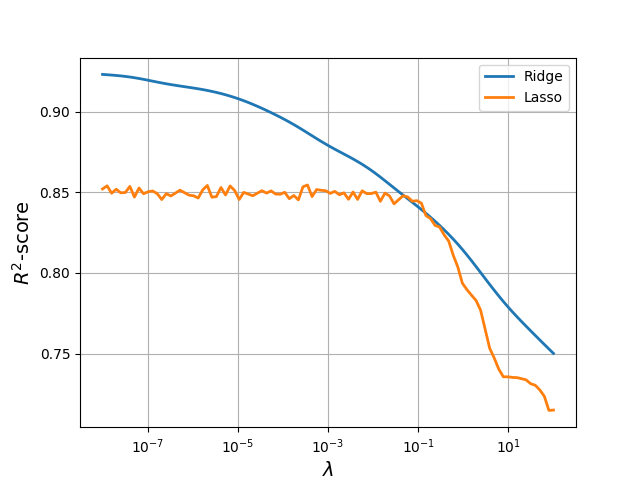
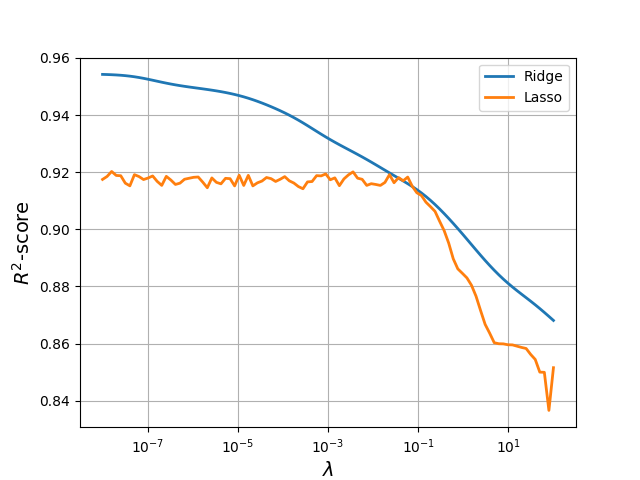
Added results from terrain data

diff --git a/doc/Project1/text/results.tex b/doc/Project1/text/results.tex
@@ -118,50 +118,50 @@ Furthermore, the confidence intervals are given in table \eqref{tab:CI_franke} f
 \fi
 
 \subsection{Real data}
-Below one can find the results when fitting the terrain data with a polynomial of a maximum degree of 5 in x- and y-directions. For the methods that require minimization, we used gradient descent with the parameters $\lambda=1e-5$ (penalty), $\eta=1e-4$ (learning rate) and $niter=1e5$ (number of iterations) when nothing else is specified. For benchmarking the results (mainly to verify the code), Scikit learn was used. In the first place, the studies were done without noise, and then everything was repeated with adding a noise of $\mathcal{N}(0, \sigma^2=0.1)$
+Below one can find the results when fitting the terrain data with a polynomial of a maximum degree of 5 in x- and y-directions. For the methods that require minimization, we used gradient descent with the parameters $\lambda=1e-5$ (penalty), $\eta=1e-4$ (learning rate) and $\text{niter}=1e5$ (number of iterations) when nothing else is specified. For benchmarking the results (mainly to verify the code), Scikit Learn was used.
 
 \subsubsection{Visualization of graphes}
-In figure \eqref{fig:terrain_plots}, we can see how good we were able to fit the polynomials using various methods
+In figure \eqref{fig:terrain_plots}, we can see how good we were able to fit the polynomials using OLS, Ridge and Lasso methods. 
 
 
 \newgeometry{left=2cm,right=2cm,top=1cm}
 \begin{figure} [H]%
 	\centering
-	\subfloat[OLS]{{\includegraphics[width=9cm]{../plots/OLS_terrain.png} }}%
-	\subfloat[Ridge]{{\includegraphics[width=9cm]{../plots/Ridge_terrain.png} }}\\
+	\subfloat[OLS]{{\includegraphics[width=8cm]{../plots/OLS_terrain.png} }}%
+	\subfloat[Ridge]{{\includegraphics[width=8cm]{../plots/Ridge_terrain.png} }}\\
 	
-	\subfloat[Lasso]{{\includegraphics[width=9cm]{../plots/Lasso_terrain.png} }}%
-	\subfloat[Terrain data]{{\includegraphics[width=9cm]{../plots/lombok.png} }}
+	\subfloat[Lasso]{{\includegraphics[width=8cm]{../plots/Lasso_terrain.png} }}%
+	\subfloat[Terrain data]{{\includegraphics[width=8cm]{../plots/lombok.png} }}
 	
-	\caption{Fitted polynomial by OLS, Ridge and Lasso. For Ridge and Lasso, we used a low penalty of $\lambda=1e-5$. Lasso was performed with $\eta=1e-4$ and 1e5 iterations. The terrain data used in regression was normalized, but the data used in the terrain plot was not.}%
+	\caption{Fitted polynomial by OLS (upper left), Ridge (upper right) and Lasso (lower left). In addition the real terrain data was added (lower right). For Ridge and Lasso, we used a low penalty of $\lambda=1e-5$. Lasso was performed with $\eta=1e-4$ and $\text{niter}=1e5$ iterations. The terrain data used in regression was normalized, but the data used in the terrain plot was not.}%
 	\label{fig:terrain_plots}%
 \end{figure}
 \begin{figure} [H]
 	\centering
 	\includegraphics[width=7cm]{../plots/lambda_R2score_terrain.png}
-	\caption{R$^2$-score plotted as a function of the penalty $\lambda$. The penalty was varied in the interval $\lambda\in[10^{-8},10^2]$, and the other parameters used were $\eta=1e-4$ (learning rate) and $niter=1e5$ (number of iterations).}
+	\caption{R$^2$-score plotted as a function of the penalty $\lambda$. The penalty was varied in the interval $\lambda\in[10^{-8},10^2]$, and the other parameters used were $\eta=1e-4$ (learning rate) and $\text{niter=1e5}$ (number of iterations).}
 	\label{fig:R2_scores_terrain}
 \end{figure}
 \restoregeometry
 
 
 \subsubsection{Error}
-To be able to determine which method is best, we need to analyze the error. In table \eqref{tab:terrain_error}, the MSE and R$^2$-score are given for OLS, Ridge, Lasso and Ridge with gradient descent (RidgeGD). 
+To determine which method is best, we need to analyze the error. In table \eqref{tab:franke_error}, the MSE and R$^2$-score are given for OLS, Ridge, Lasso and Ridge with gradient descent (RidgeGD). The errors were evaluated by the self-implemented functions directly (Self), by K-fold resampling test data (K-fold) and by Scikit Learn (Scikit).
 
 \begin{table} [H]
-	\caption{Mean Square Error and R$^2$-score presented for OLS, Ridge, Lasso and Ridge + gradient descent (RidgeGD), where noise was added to the data. The parameters used were $\lambda=1e-5$ (penalty), $\eta=1e-4$ (learning rate), $niter=1e5$ (number of iterations) and $\mathcal{N}(0, \sigma^2=0.1)$ (noise). \vspace{2mm}}
+	\caption{Mean Square Error and R$^2$-score presented for OLS, Ridge, Lasso and Ridge + gradient descent (RidgeGD), where noise was added to the data. The parameters used were $\lambda=1e-5$ (penalty), $\eta=1e-4$ (learning rate) and $\text{niter}=1e5$ (number of iterations). See text for more information.}
 	\begin{tabularx}{\textwidth}{l|XXX|XXX} \hline\hline
 		\label{tab:terrain_error}
 		& \multicolumn{3}{c}{\textbf{MSE}}&\multicolumn{3}{c}{\textbf{R2}}\\ \hline
 		&self&K-fold&scikit&self&K-fold&scikit\\ \hline \\
-		OLS & 0.006282 && 0.006282 & 0.9267 && 0.9267\\
-		Ridge & 0.007886 && 0.007886 & 0.9080 && 0.9080 \\
-		Lasso & 0.01294 && 0.01340 & 0.8491 && 0.8437 \\
-		RidgeGD & 0.01299 && 0.007885 & 0.8485 && 0.9080 \\ \hline
+		OLS & 0.003665 & 0.003834 & 0.003665 & 0.9550 & 0.9520 & 0.9550\\
+		Ridge & 0.004322 & 0.004512 & 0.004322 & 0.9469 & 0.9436 & 0.9469 \\
+		Lasso & 0.006960 & 0.006893 & 0.006758 & 0.9145 & 0.9138 & 0.9170 \\
+		RidgeGD & 0.006764 & 0.006884 & 0.004322 & 0.9170 & 0.9140 & 0.9469 \\ \hline
 	\end{tabularx}
 \end{table}
 
-We have also studied how the R$^2$ score is dependent on various parameters. In figure \eqref{fig:R2_scores_terrain}, the R$^2$-score is plotted as a function of the penalty for Ridge and Lasso (a), and as a function of the noise for OLS, Ridge and Lasso (b).
+We have also studied how the R$^2$ score is dependent on the penalty $\lambda$. In figure \eqref{fig:R2_scores_terrain}, the R$^2$-score is plotted as a function of the penalty for both Ridge and Lasso.
 
 
 \iffalse

diff --git a/doc/Project1/scripts/fit_terrain.py b/doc/Project1/scripts/fit_terrain.py
@@ -80,18 +80,19 @@ betas = ["beta_ols_test", "beta_ols", "beta_ridge_test", "beta_ridge", "beta_las
 for beta in betas:
     beta_mat = eval(beta)
 
-    #fig = plt.figure()
-    #plt.imshow(beta_mat, cmap=cm.coolwarm)
-    #plt.savefig("../plots/{}_visualize.png".format(beta))
-    #plt.colorbar()
-
-    plot_3D(beta_mat, show_plot=False)
+    #plot_3D(beta_mat, show_plot=False)
     
     print("\n---{}---".format(beta))
     print("MSE: ", MSE(x, y, z, beta_mat))
     print("R2: ", R2(x, y, z, beta_mat))
 plt.show()
 
+
+# === Resample ===
+print("OLS K=10: ", k_fold(x, y, z, K=10, method='ols'))
+print("Ridge K=10: ", k_fold(x, y, z, K=10, method='ridge'))
+print("Lasso K=10: ", k_fold(x, y, z, K=10, method='lasso'))
+print("RidgeGD K=10: ", k_fold(x, y, z, K=10, method='ridgeGD'))
 
 # === lambda vs R2 ===
 lambda_list = []
@@ -116,34 +117,4 @@ plt.grid()
 plt.savefig('../plots/lambda_R2score_terrain.png')
 plt.show()
 
-
-# === noise vs R2 ===
-R2_ols = []
-R2_ridge = []
-R2_lasso = []
-var = []
-for i in np.linspace(-6,-0.7, 100):
-    var.append(10**i)
-    noise = normal(0,var[-1],N)         # Noise
-    z = FrankeFunction(x, y) + noise
-    
-    order5 = Reg_2D(x, y, z, Px=5, Py=5)
-    beta_ols = order5.ols()
-    beta_ridge = order5.ridge(λ)
-    beta_lasso = order5.lasso(λ, η, niter)
-    
-    R2_ols.append(R2(x, y, z, beta_ols))
-    R2_ridge.append(R2(x, y, z, beta_ridge))
-    R2_lasso.append(R2(x, y, z, beta_lasso))
-    
-    
-plt.semilogx(var, R2_ols, label='OLS', linewidth=2)
-plt.semilogx(var, R2_ridge, label='Ridge', linewidth=2)
-plt.semilogx(var, R2_lasso, label='Lasso', linewidth=2)
-plt.xlabel('$\sigma^2$ in noise', **label_size)
-plt.ylabel('$R^2$-score', **label_size)
-plt.legend(loc='best')
-plt.grid()
-plt.savefig('../plots/var_R2score_terrain.png')
-plt.show()
 
